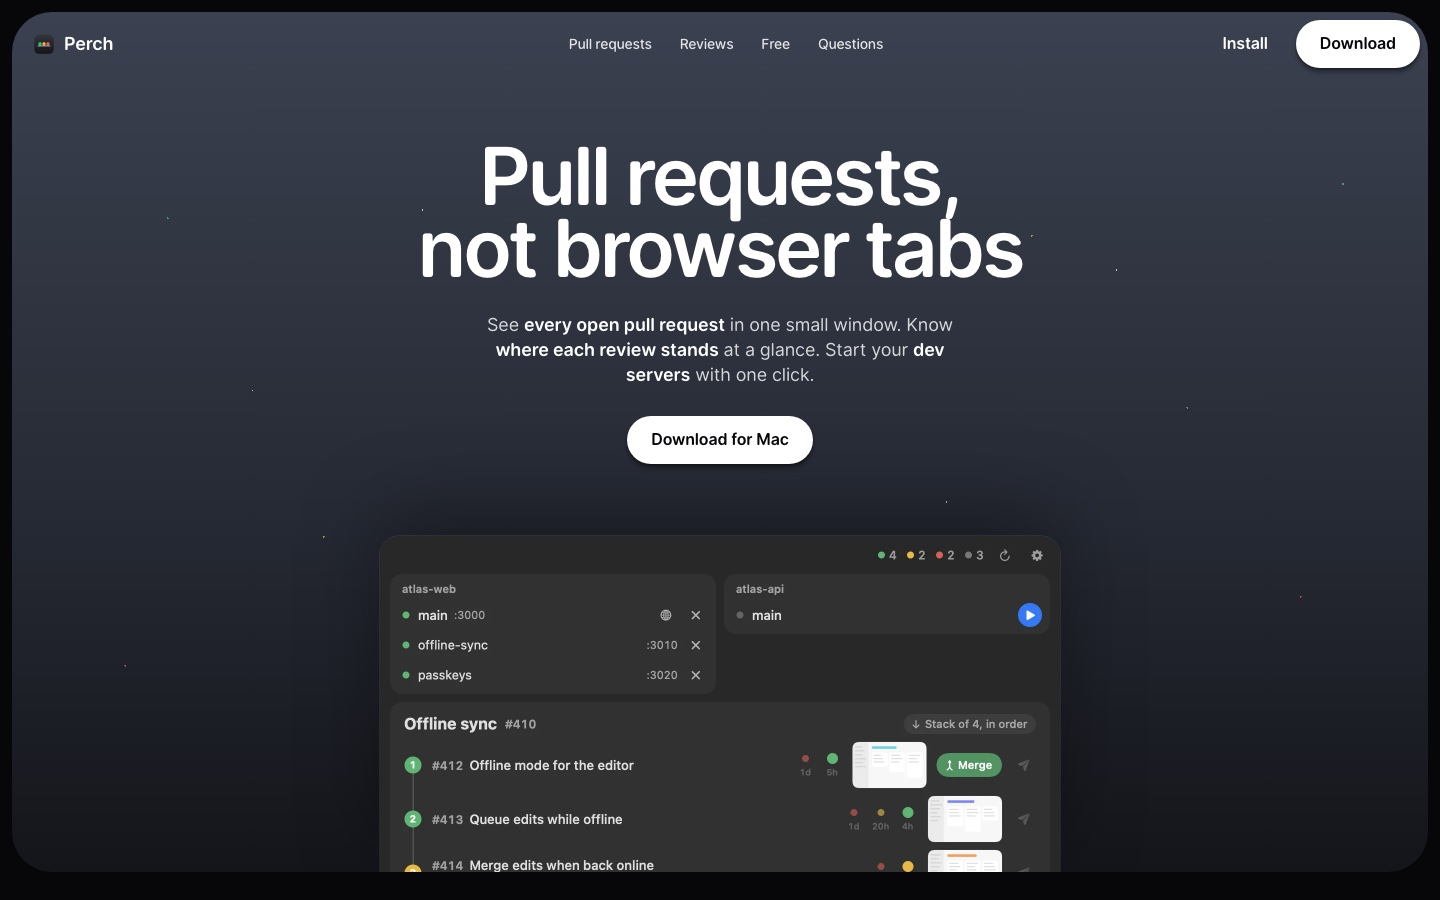
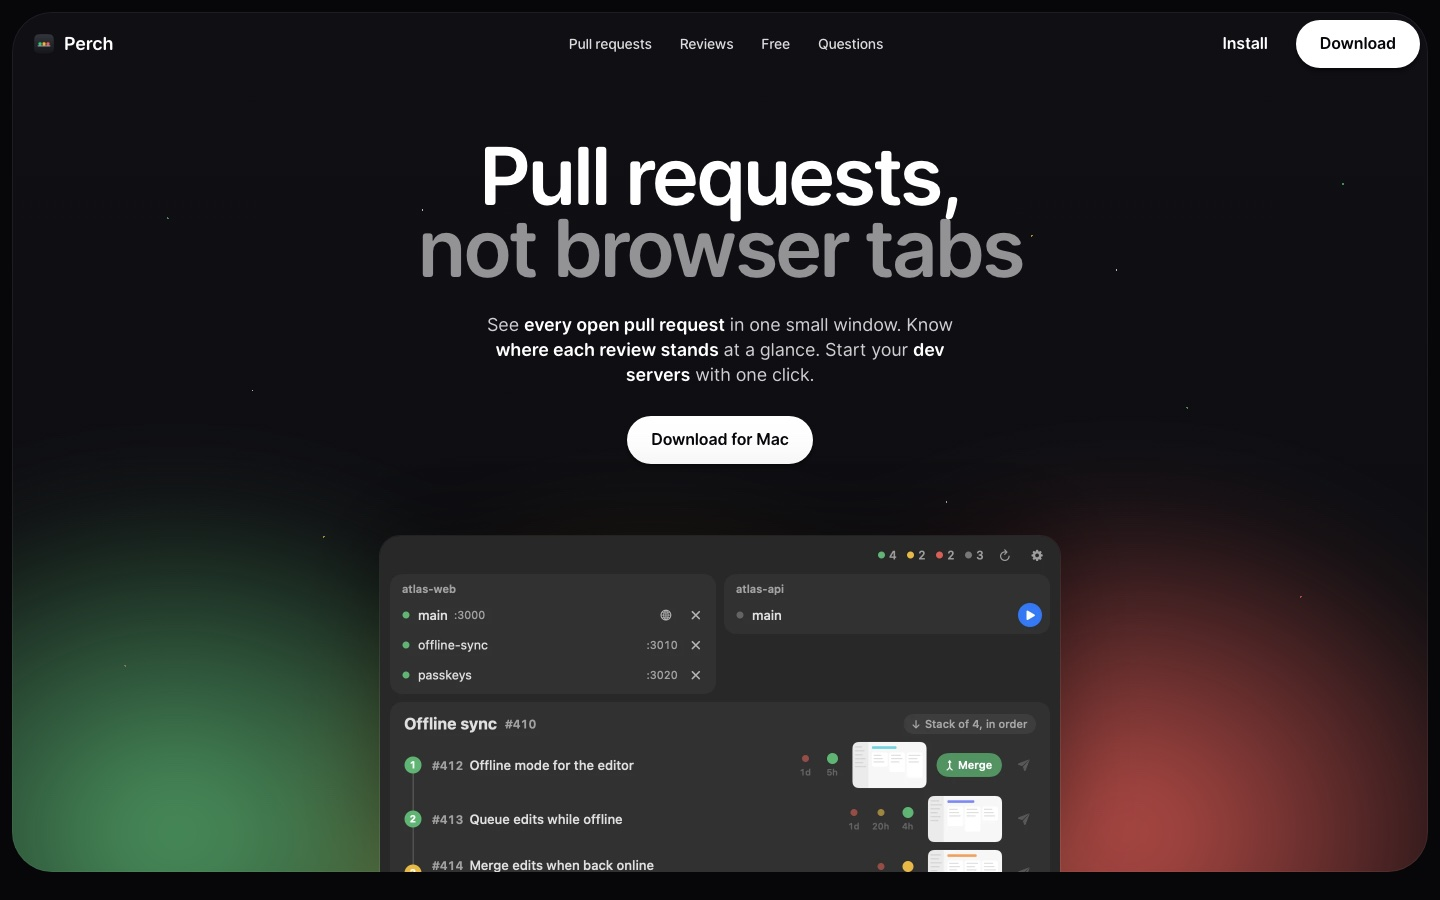
Landing page: color, live demo and motion

diff --git a/index.html b/index.html
@@ -12,6 +12,7 @@
 <meta name="twitter:card" content="summary_large_image">
 <meta name="theme-color" content="#070709">
 <meta name="color-scheme" content="dark">
+<script>document.documentElement.classList.add("js")</script>
 <link rel="icon" href="favicon.png" type="image/png">
 <link rel="preload" href="fonts/OpenRunde-Semibold.woff2" as="font" type="font/woff2" crossorigin>
 <link rel="preload" href="fonts/OpenRunde-Regular.woff2" as="font" type="font/woff2" crossorigin>
@@ -24,7 +25,9 @@
   --bg:#070709;--card:#121215;--chip:#1e1e23;--line:#2a2a31;
   --text:#fff;--soft:#a0a0ac;--dim:#6c6c78;
   --green:#5fbf77;--amber:#f0b93c;--red:#ea5f57;
-  --night:linear-gradient(180deg,#3b4150 0%,#262a34 58%,#14151a 100%);
+  --night:linear-gradient(180deg,#101014 0%,#0d0d10 100%);
+  --ease-out:cubic-bezier(.23,1,.32,1);--ease-in-out:cubic-bezier(.77,0,.175,1);
+  --g:95,191,119;--a:240,185,60;--r:234,95,87;
   --lift:0 1px 2px rgba(0,0,0,.3),0 3px 3px rgba(0,0,0,.25),0 6px 4px rgba(0,0,0,.15);
 }
 *{box-sizing:border-box;margin:0}
@@ -59,7 +62,14 @@ b,strong{font-weight:600;color:var(--text)}
   radial-gradient(.09rem .09rem at 66% 57%,#fff 50%,transparent 51%),
   radial-gradient(.125rem .125rem at 94% 20%,var(--green) 50%,transparent 51%),
   radial-gradient(.09rem .09rem at 36% 70%,#fff 50%,transparent 51%)}
-.band>*{position:relative}
+.band::after{content:"";position:absolute;left:-10%;right:-10%;bottom:-22%;height:95%;pointer-events:none;filter:blur(3rem);background:
+  radial-gradient(34% 60% at 22% 70%,rgba(var(--g),.8),transparent 70%),
+  radial-gradient(34% 70% at 50% 80%,rgba(var(--a),.7),transparent 70%),
+  radial-gradient(34% 60% at 78% 70%,rgba(var(--r),.8),transparent 70%);
+  animation:drift 16s var(--ease-in-out) infinite alternate}
+@keyframes drift{from{transform:translate3d(-4%,2%,0) scale(1)}to{transform:translate3d(4%,-3%,0) scale(1.08)}}
+.band{box-shadow:inset 0 0 0 1px rgba(255,255,255,.06)}
+.band>*{position:relative;z-index:1}
 
 /* nav */
 .nav{display:flex;align-items:center;justify-content:space-between;padding:.5rem .5rem .5rem 1.25rem}
@@ -75,6 +85,12 @@ b,strong{font-weight:600;color:var(--text)}
 h1{font-size:5rem;font-weight:600;line-height:.9;letter-spacing:-.04em;text-wrap:balance}
 .sub{margin:1.75rem auto 0;max-width:30rem;font-size:1.125rem;line-height:1.4;color:rgba(255,255,255,.8)}
 .hero .btn{margin-top:1.75rem}
+@keyframes rise{from{opacity:0;transform:translateY(1.25rem)}to{opacity:1;transform:none}}
+@keyframes lift{from{opacity:0;transform:translateY(4rem) scale(.97)}to{opacity:1;transform:none}}
+.hero h1,.hero .sub,.hero .btn{animation:rise .8s var(--ease-out) both}
+.hero .sub{animation-delay:.08s}.hero .btn{animation-delay:.16s}
+.hero .peek{animation:lift 1.1s var(--ease-out) .25s both}
+h1 em{font-style:normal;color:rgba(255,255,255,.55)}
 .peek{margin:4.5rem auto 0;width:42.5rem;max-width:100%;height:21rem;overflow:hidden;border-radius:1.25rem 1.25rem 0 0;box-shadow:0 0 0 1px rgba(255,255,255,.08),0 -1.5rem 5rem rgba(0,0,0,.35)}
 
 /* sections */
@@ -98,6 +114,59 @@ h2{font-size:2.75rem;font-weight:600;line-height:1.1;letter-spacing:-.04em;text-
 .vis.fade img{-webkit-mask-image:linear-gradient(90deg,#000 70%,transparent);mask-image:linear-gradient(90deg,#000 70%,transparent)}
 .big p{color:var(--soft);max-width:26rem}
 .big .btn{align-self:flex-start}
+
+/* value strip */
+.vals{display:grid;grid-template-columns:repeat(3,1fr);gap:2.25rem;text-align:center}
+.vals b{display:block;font-size:6rem;font-weight:600;line-height:1;letter-spacing:-.05em}
+.vals span{display:block;margin-top:.5rem;color:var(--soft);font-size:1.0625rem}
+.cg{color:rgb(var(--g))}.ca{color:rgb(var(--a))}.cr{color:rgb(var(--r))}
+
+/* color tints */
+.tint{position:relative;overflow:hidden;box-shadow:inset 0 0 0 1px rgba(255,255,255,.05)}
+.tint::before{content:"";position:absolute;inset:0;pointer-events:none;opacity:.55;background:radial-gradient(70% 60% at 85% 0%,rgba(var(--c),.3),transparent 70%);transition:opacity .3s ease}
+.tint>*{position:relative}
+.tg{--c:var(--g)}.ta{--c:var(--a)}.tr{--c:var(--r)}
+.tint .tag svg,.tint .ico svg{color:rgb(var(--c))}
+.vis img{transition:transform .35s var(--ease-out)}
+@media (hover:hover) and (pointer:fine){
+  .tint:hover::before{opacity:1}
+  .big:hover .vis img{transform:translateY(-.25rem) scale(1.015)}
+}
+
+/* live demo: one pull request going from red to merged */
+.demo{position:relative;max-width:52rem;margin:2.5rem auto 0;padding:2.5rem;border-radius:2.5rem;background:var(--card);overflow:hidden;box-shadow:inset 0 0 0 1px rgba(255,255,255,.05)}
+.glow{position:absolute;inset:0;pointer-events:none;background:radial-gradient(60% 120% at 50% 120%,rgba(var(--c),.4),transparent 70%)}
+.row{position:relative;display:flex;align-items:center;gap:1rem;padding:1.125rem 1.25rem;border-radius:1.125rem;background:#2b2b2e;box-shadow:0 1.5rem 3rem rgba(0,0,0,.45);text-align:left}
+.st{position:relative;flex:none;width:1.125rem;height:1.125rem}
+.st i{position:absolute;inset:0;border-radius:50%}
+.rt{flex:1;min-width:0}
+.rt strong{display:block;font-size:1.0625rem;font-weight:600;white-space:nowrap;overflow:hidden;text-overflow:ellipsis}
+.rt strong span{color:var(--soft);font-weight:500;margin-right:.375rem}
+.why{position:relative;display:block;height:1.4rem;font-size:.9375rem;color:var(--soft)}
+.why span{position:absolute;left:0;top:0;white-space:nowrap}
+.rounds{display:flex;gap:.625rem;align-items:center}
+.rounds i{width:.875rem;height:.875rem;border-radius:50%}
+.act{position:relative;flex:none;width:6.5rem;height:2.25rem}
+.act span{position:absolute;inset:0;display:flex;align-items:center;justify-content:center;gap:.375rem;border-radius:6.25rem;font-size:.9375rem;font-weight:600}
+.act .mg{background:#4c9c62;color:#fff}
+.act .md{color:rgb(var(--g))}
+.steps{position:relative;display:flex;justify-content:center;gap:2rem;margin-top:1.75rem;font-size:.9375rem;font-weight:500;color:var(--dim)}
+.steps span{display:flex;align-items:center;gap:.5rem}
+.steps i{width:.5rem;height:.5rem;border-radius:50%}
+.pR,.pA,.pG,.r2,.r3,.mg,.md{animation-duration:10s;animation-iteration-count:infinite;animation-timing-function:var(--ease-out)}
+.pR{animation-name:pR}.pA{animation-name:pA;opacity:0}.pG{animation-name:pG;opacity:0}
+.r2{animation-name:r2;opacity:0}.r3{animation-name:r3;opacity:0}.mg{animation-name:mg;opacity:0}.md{animation-name:md;opacity:0}
+@keyframes pR{0%,27%{opacity:1}31%,97%{opacity:0}100%{opacity:1}}
+@keyframes pA{0%,27%{opacity:0}31%,57%{opacity:1}61%,100%{opacity:0}}
+@keyframes pG{0%,57%{opacity:0}61%,95%{opacity:1}100%{opacity:0}}
+@keyframes r2{0%,28%{opacity:0;transform:scale(.9)}32%,95%{opacity:1;transform:none}100%{opacity:0}}
+@keyframes r3{0%,58%{opacity:0;transform:scale(.9)}62%,95%{opacity:1;transform:none}100%{opacity:0}}
+@keyframes mg{0%,64%{opacity:0;transform:scale(.95)}68%,81%{opacity:1;transform:none}83%{opacity:1;transform:scale(.97)}85%{opacity:1;transform:none}87%,100%{opacity:0}}
+@keyframes md{0%,86%{opacity:0;transform:scale(.95)}89%,95%{opacity:1;transform:none}100%{opacity:0}}
+
+/* scroll reveal */
+.js .rv{opacity:0;transform:translateY(1.25rem)}
+.js .rv.in{opacity:1;transform:none;transition:opacity .7s var(--ease-out) var(--d,0s),transform .7s var(--ease-out) var(--d,0s)}
 
 /* small cards */
 .three{display:grid;grid-template-columns:repeat(3,1fr);gap:2.25rem;margin-top:2.25rem}
@@ -157,7 +226,11 @@ a:focus-visible,button:focus-visible,summary:focus-visible{outline:2px solid #ff
   .hero{padding:3rem 1.25rem 0}
   .peek{height:14rem;margin-top:3rem}
   section{padding-top:4.5rem}
-  .two,.three,.plans{grid-template-columns:1fr;gap:1rem}
+  .two,.three,.plans,.vals{grid-template-columns:1fr;gap:1rem}
+  .vals b{font-size:4rem}
+  .demo{padding:1.25rem;border-radius:1.75rem}
+  .rounds{display:none}
+  .steps{gap:1rem;flex-wrap:wrap}
   .big,.sm{padding:1.75rem;border-radius:1.75rem}
   .big{min-height:0}
   .free{margin-top:4.5rem;padding:3.5rem 1.25rem}
@@ -166,7 +239,14 @@ a:focus-visible,button:focus-visible,summary:focus-visible{outline:2px solid #ff
   .end{flex-direction:column}
   .auth .ghost{display:none}
 }
-@media (prefers-reduced-motion:reduce){html{scroll-behavior:auto}*{transition:none!important}}
+@media (prefers-reduced-motion:reduce){
+  html{scroll-behavior:auto}
+  .band::after,.hero h1,.hero .sub,.hero .btn,.hero .peek{animation:none}
+  .pR,.pA,.r2,.r3,.mg,.md,.pG{animation:none}
+  .pR,.pA,.mg{opacity:0}.pG,.r2,.r3,.md{opacity:1}
+  .js .rv{opacity:1;transform:none}
+  .vis img{transition:none}
+}
 </style>
 </head>
 <body>
@@ -201,7 +281,7 @@ a:focus-visible,button:focus-visible,summary:focus-visible{outline:2px solid #ff
     </div>
   </header>
   <div class="hero">
-    <h1>Pull requests,<br>not browser tabs</h1>
+    <h1>Pull requests,<br><em>not browser tabs</em></h1>
     <p class="sub">See <b>every open pull request</b> in one small window. Know <b>where each review stands</b> at a glance. Start your <b>dev servers</b> with one click.</p>
     <a class="btn" href="https://github.com/galcabinet/perch/releases/latest/download/Perch.zip">Download for Mac</a>
     <div class="peek"><img src="img/app.webp" width="1360" height="1760" alt="The Perch window, with running dev servers on top and pull requests grouped into stacks below." fetchpriority="high"></div>
@@ -210,17 +290,42 @@ a:focus-visible,button:focus-visible,summary:focus-visible{outline:2px solid #ff
 
 <main>
 
+<section>
+  <div class="wrap vals">
+    <div class="rv"><b class="cr">0</b><span>browser tabs to open</span></div>
+    <div class="rv"><b class="ca">3</b><span>colors to read</span></div>
+    <div class="rv"><b class="cg">1</b><span>click to merge</span></div>
+  </div>
+</section>
+
+<section id="story">
+  <div class="wrap">
+    <h2 class="rv">Watch a pull request <span class="tok" aria-hidden="true"><i class="r"></i><i class="a"></i><i class="g"></i></span><br>go from red to merged</h2>
+    <div class="demo rv" role="img" aria-label="A pull request row. Its dot turns from red to amber to green, a Merge button appears, and it is merged.">
+      <span class="glow pR" style="--c:var(--r)"></span><span class="glow pA" style="--c:var(--a)"></span><span class="glow pG" style="--c:var(--g)"></span>
+      <div class="row" aria-hidden="true">
+        <span class="st"><i class="r pR"></i><i class="a pA"></i><i class="g pG"></i></span>
+        <span class="rt"><strong><span>#415</span>Show sync state in the toolbar</strong>
+          <span class="why"><span class="pR">Add a test for the retry path</span><span class="pA">Reviewer signs off on the size</span><span class="pG">Approved</span></span></span>
+        <span class="rounds"><i class="r" style="opacity:.6"></i><i class="a r2"></i><i class="g r3"></i></span>
+        <span class="act"><span class="mg">Merge</span><span class="md">Merged</span></span>
+      </div>
+      <div class="steps" aria-hidden="true"><span><i class="r"></i>Changes asked</span><span><i class="a"></i>One thing left</span><span><i class="g"></i>Ready to merge</span></div>
+    </div>
+  </div>
+</section>
+
 <section id="pulls">
   <div class="wrap">
-    <h2>Your whole day <span class="tok" aria-hidden="true"><i class="g"></i><i class="a"></i><i class="r"></i></span> in<br>one small window</h2>
+    <h2 class="rv">Your whole day <span class="tok" aria-hidden="true"><i class="g"></i><i class="a"></i><i class="r"></i></span> in<br>one small window</h2>
     <div class="two">
-      <article class="big">
+      <article class="big tint tg rv">
         <span class="tag"><svg><use href="#i-pr"/></svg>Pull requests</span>
         <h3>Every open pull request, in merge order</h3>
         <div class="vis fade"><img src="img/stack.webp" width="776" height="504" alt="A stack of four pull requests shown as numbered steps, two green, one amber and one red." loading="lazy"></div>
         <a class="btn dark" href="#reviews">About reviews <svg><use href="#i-arrow"/></svg></a>
       </article>
-      <article class="big">
+      <article class="big tint ta rv">
         <span class="tag"><svg><use href="#i-play"/></svg>Local runs</span>
         <h3>Dev servers from any folder, one click away</h3>
         <div class="vis"><img src="img/runs.webp" width="644" height="232" alt="A project folder with three running dev servers, each with its branch, port and a stop button." loading="lazy"></div>
@@ -232,15 +337,15 @@ a:focus-visible,button:focus-visible,summary:focus-visible{outline:2px solid #ff
 
 <section id="reviews">
   <div class="wrap">
-    <h2>Reviews <span class="tok" aria-hidden="true"><svg><use href="#i-dots"/></svg></span> have never<br>been easier to follow</h2>
+    <h2 class="rv">Reviews <span class="tok" aria-hidden="true"><svg><use href="#i-dots"/></svg></span> have never<br>been easier to follow</h2>
     <div class="two">
-      <article class="big">
+      <article class="big tint tr rv">
         <span class="tag"><svg><use href="#i-dots"/></svg>Review rounds</span>
         <h3>Each review round is one dot</h3>
         <div class="vis"><img src="img/rounds.webp" width="536" height="436" alt="Rows of small dots, one per review round, with how long ago each happened." loading="lazy" style="width:19rem"></div>
         <p><b>Read the history left to right.</b> Oldest round first, with how long ago it happened. A ring means you pushed and it needs a new look.</p>
       </article>
-      <article class="big">
+      <article class="big tint tg rv">
         <span class="tag"><svg><use href="#i-click"/></svg>One click</span>
         <h3>The next step is always a button</h3>
         <div class="vis"><img src="img/acts.webp" width="536" height="264" alt="Three buttons next to pull requests: Merge, Fix clash and Send for review." loading="lazy" style="width:19rem"></div>
@@ -248,47 +353,47 @@ a:focus-visible,button:focus-visible,summary:focus-visible{outline:2px solid #ff
       </article>
     </div>
     <div class="three">
-      <div class="sm"><span class="ico"><i class="g"></i></span><h4>Green means merge</h4><p>Approved and ready. In a stack, Perch shows which one goes first.</p></div>
-      <div class="sm"><span class="ico"><i class="a"></i></span><h4>Amber means almost</h4><p>The reviewer has one thing left to decide. You see what it is in a few words.</p></div>
-      <div class="sm"><span class="ico"><i class="r"></i></span><h4>Red means fix</h4><p>Changes were asked for. The request sits right under the title.</p></div>
+      <div class="sm tint tg rv"><span class="ico"><i class="g"></i></span><h4>Green means merge</h4><p>Approved and ready. In a stack, Perch shows which one goes first.</p></div>
+      <div class="sm tint ta rv"><span class="ico"><i class="a"></i></span><h4>Amber means almost</h4><p>The reviewer has one thing left to decide. You see what it is in a few words.</p></div>
+      <div class="sm tint tr rv"><span class="ico"><i class="r"></i></span><h4>Red means fix</h4><p>Changes were asked for. The request sits right under the title.</p></div>
     </div>
   </div>
 </section>
 
 <section id="tools">
   <div class="wrap">
-    <h2>Works with the tools<br>you already use</h2>
+    <h2 class="rv">Works with the tools<br>you already use</h2>
     <p class="lede">Perch has nothing to set up on a server. It talks through what is <b>already on your Mac</b>.</p>
     <div class="three">
-      <div class="sm"><span class="ico"><svg><use href="#i-term"/></svg></span><h4>GitHub CLI</h4><p>Reads your pull requests and merges them, signed in as you.</p></div>
-      <div class="sm"><span class="ico"><svg><use href="#i-chat"/></svg></span><h4>Claude Code</h4><p>Sums up each review in a few words and names your groups. Optional.</p></div>
-      <div class="sm"><span class="ico"><svg><use href="#i-plane"/></svg></span><h4>Slack</h4><p>Sends the link to your reviewer through the Slack app. Optional.</p></div>
+      <div class="sm tint tg rv"><span class="ico"><svg><use href="#i-term"/></svg></span><h4>GitHub CLI</h4><p>Reads your pull requests and merges them, signed in as you.</p></div>
+      <div class="sm tint ta rv"><span class="ico"><svg><use href="#i-chat"/></svg></span><h4>Claude Code</h4><p>Sums up each review in a few words and names your groups. Optional.</p></div>
+      <div class="sm tint tr rv"><span class="ico"><svg><use href="#i-plane"/></svg></span><h4>Slack</h4><p>Sends the link to your reviewer through the Slack app. Optional.</p></div>
     </div>
   </div>
 </section>
 
 <section id="safe">
   <div class="wrap">
-    <h2>Your data stays yours</h2>
+    <h2 class="rv">Your data stays yours</h2>
     <div class="three">
-      <div class="sm"><span class="ico"><svg><use href="#i-user"/></svg></span><h4>No account</h4><p>Nothing to sign up for. Open the app, name your repository, done.</p></div>
-      <div class="sm"><span class="ico"><svg><use href="#i-cloud"/></svg></span><h4>No server</h4><p>Perch has no backend. Your code and reviews never pass through us.</p></div>
-      <div class="sm"><span class="ico"><svg><use href="#i-mac"/></svg></span><h4>Saved on your Mac</h4><p>Settings live in the app's preferences, and the Slack token in your Keychain.</p></div>
+      <div class="sm tint tg rv"><span class="ico"><svg><use href="#i-user"/></svg></span><h4>No account</h4><p>Nothing to sign up for. Open the app, name your repository, done.</p></div>
+      <div class="sm tint ta rv"><span class="ico"><svg><use href="#i-cloud"/></svg></span><h4>No server</h4><p>Perch has no backend. Your code and reviews never pass through us.</p></div>
+      <div class="sm tint tr rv"><span class="ico"><svg><use href="#i-mac"/></svg></span><h4>Saved on your Mac</h4><p>Settings live in the app's preferences, and the Slack token in your Keychain.</p></div>
     </div>
   </div>
 </section>
 
 <div class="band free" id="free">
-  <h2>Simply free</h2>
+  <h2 class="rv">Simply free</h2>
   <div class="plans">
-    <div class="plan">
+    <div class="plan rv">
       <small>Perch for Mac</small>
       <strong>Free</strong>
       <ul><li>Every feature</li><li>macOS 14 or later</li><li>Apple silicon and Intel</li></ul>
       <a class="btn" href="https://github.com/galcabinet/perch/releases/latest/download/Perch.zip"><svg><use href="#i-down"/></svg>Download</a>
       <p class="note">A 1 MB zip</p>
     </div>
-    <div class="plan">
+    <div class="plan rv">
       <small>Or from Terminal</small>
       <strong>One line</strong>
       <div class="cmd" id="cmd">curl -fsSL https://galcabinet.github.io/perch/install.sh | sh</div>
@@ -300,22 +405,22 @@ a:focus-visible,button:focus-visible,summary:focus-visible{outline:2px solid #ff
 
 <section id="questions">
   <div class="wrap">
-    <h2>Questions</h2>
+    <h2 class="rv">Questions</h2>
     <div class="faq">
-      <details><summary>What do I need installed?</summary><p>The GitHub CLI (gh), signed in. Claude Code and Slack are optional.</p></details>
-      <details><summary>What is Claude Code used for?</summary><p>It reads each review and sums it up in a few words, and it names your groups. Without it, the color comes from GitHub's own review state.</p></details>
-      <details><summary>How does it post to Slack?</summary><p>Through the Slack app on your Mac, as you. macOS asks once for Accessibility permission.</p></details>
-      <details><summary>Why does macOS block it at first?</summary><p>Perch is not notarized yet. If you download the zip, choose Open Anyway once in System Settings, under Privacy &amp; Security. The one-line install skips this.</p></details>
+      <details class="rv"><summary>What do I need installed?</summary><p>The GitHub CLI (gh), signed in. Claude Code and Slack are optional.</p></details>
+      <details class="rv"><summary>What is Claude Code used for?</summary><p>It reads each review and sums it up in a few words, and it names your groups. Without it, the color comes from GitHub's own review state.</p></details>
+      <details class="rv"><summary>How does it post to Slack?</summary><p>Through the Slack app on your Mac, as you. macOS asks once for Accessibility permission.</p></details>
+      <details class="rv"><summary>Why does macOS block it at first?</summary><p>Perch is not notarized yet. If you download the zip, choose Open Anyway once in System Settings, under Privacy &amp; Security. The one-line install skips this.</p></details>
     </div>
   </div>
 </section>
 
 <section class="close">
   <div class="wrap">
-    <h2>Perch stays out of your way<br>until you look at it</h2>
+    <h2 class="rv">Perch stays out of your way<br>until you look at it</h2>
     <p class="lede">It lives in your Dock and rests when hidden. <b>Glance, click, back to work.</b></p>
     <a class="btn" href="https://github.com/galcabinet/perch/releases/latest/download/Perch.zip">Download for Mac</a>
-    <img class="full" src="img/app.webp" width="1360" height="1760" alt="The full Perch window with made-up pull requests." loading="lazy">
+    <img class="full rv" src="img/app.webp" width="1360" height="1760" alt="The full Perch window with made-up pull requests." loading="lazy">
   </div>
 </section>
 
@@ -338,6 +443,15 @@ a:focus-visible,button:focus-visible,summary:focus-visible{outline:2px solid #ff
 document.getElementById("copy").addEventListener("click",function(){
   var b=this;navigator.clipboard.writeText(document.getElementById("cmd").textContent).then(function(){
     b.textContent="Copied";setTimeout(function(){b.textContent="Copy command"},1500)})});
+
+(function(){
+  var els=document.querySelectorAll(".rv");
+  if(!("IntersectionObserver" in window)){els.forEach(function(e){e.classList.add("in")});return}
+  var io=new IntersectionObserver(function(es){
+    var n=0;es.forEach(function(e){if(e.isIntersecting){e.target.style.setProperty("--d",(n++*0.07)+"s");e.target.classList.add("in");io.unobserve(e.target)}})
+  },{rootMargin:"0px 0px -8% 0px"});
+  els.forEach(function(e){io.observe(e)});
+})();
 </script>
 </body>
 </html>
